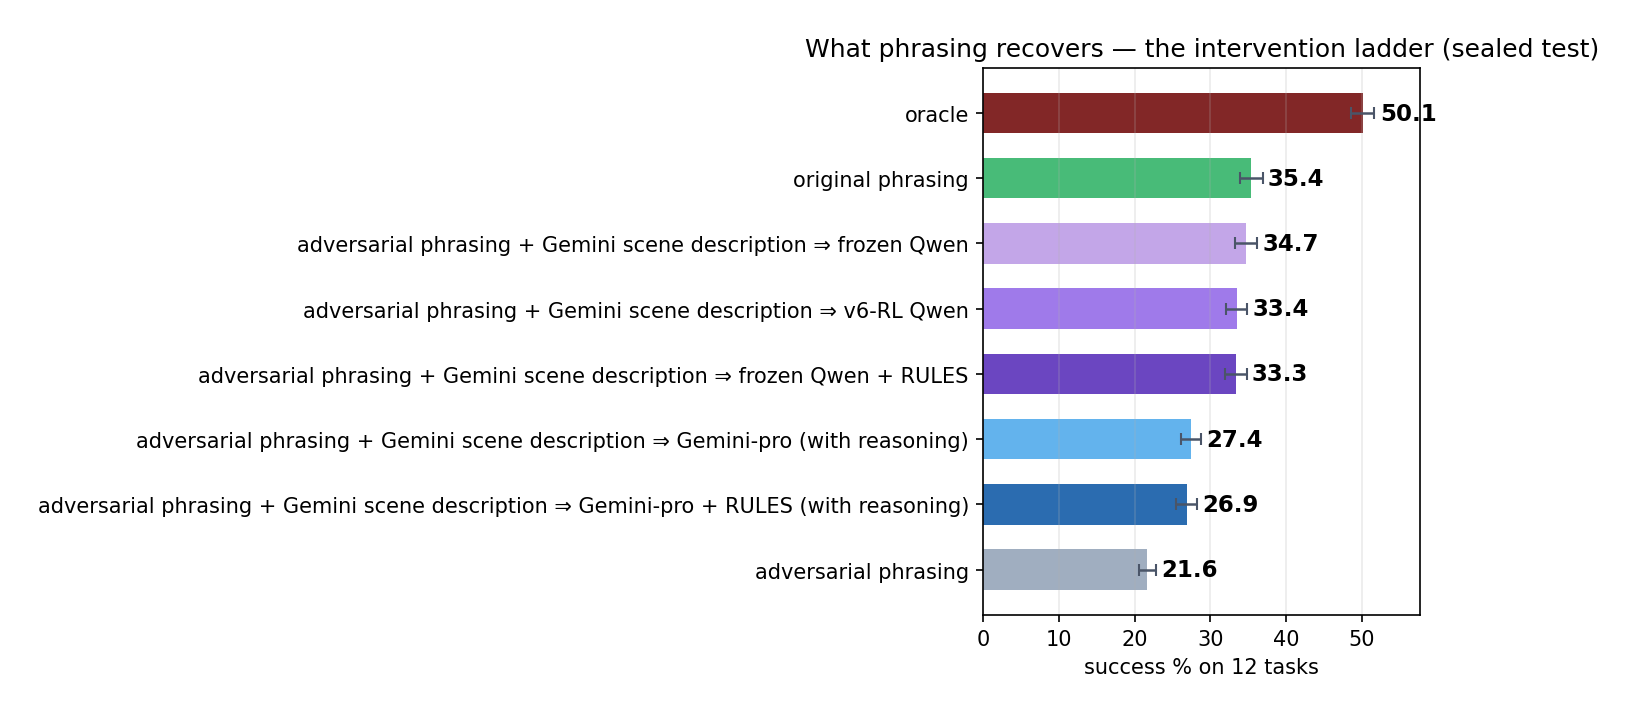
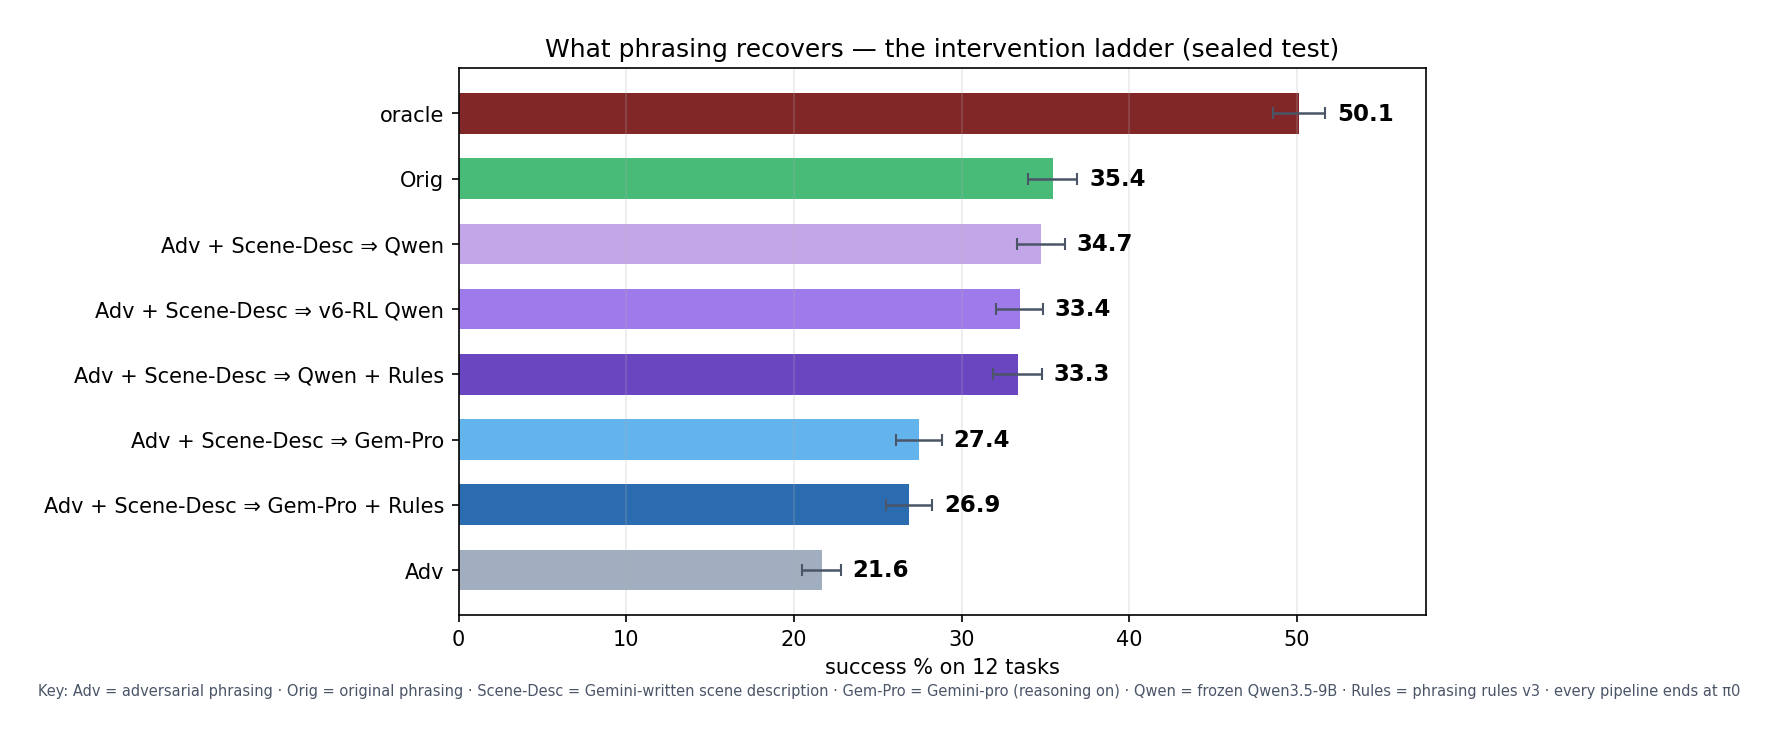
thin+ladder: abbreviated labels with key footer

Changed region(s): [[0.0, 0.2154, 0.9976, 0.9538], [0.2182, 0.0308, 0.9664, 0.1846], [0.8417, 0.8308, 0.8729, 0.8615]]

diff --git a/scripts/make_phrasing_ladder.py b/scripts/make_phrasing_ladder.py
@@ -41,13 +41,13 @@ def task_mean(arm: str) -> tuple[float, float]:
 
 
 BARS = [
-    ("adversarial phrasing", "passthrough", "#a0aec0"),
-    ("adversarial phrasing + Gemini scene description ⇒ Gemini-pro (with reasoning)", "gemini_pro_bare", "#63b3ed"),
-    ("adversarial phrasing + Gemini scene description ⇒ v6-RL Qwen", "v6_rl", "#9f7aea"),
-    ("adversarial phrasing + Gemini scene description ⇒ frozen Qwen", "frozen_gemini_trace", "#c3a6e8"),
-    ("adversarial phrasing + Gemini scene description ⇒ frozen Qwen + RULES", "rules_v3_gemini_trace", "#6b46c1"),
-    ("adversarial phrasing + Gemini scene description ⇒ Gemini-pro + RULES (with reasoning)", "rules_v3_gemini_pro", "#2b6cb0"),
-    ("original phrasing", "originals", "#48bb78"),
+    ("Adv", "passthrough", "#a0aec0"),
+    ("Adv + Scene-Desc ⇒ Gem-Pro", "gemini_pro_bare", "#63b3ed"),
+    ("Adv + Scene-Desc ⇒ v6-RL Qwen", "v6_rl", "#9f7aea"),
+    ("Adv + Scene-Desc ⇒ Qwen", "frozen_gemini_trace", "#c3a6e8"),
+    ("Adv + Scene-Desc ⇒ Qwen + Rules", "rules_v3_gemini_trace", "#6b46c1"),
+    ("Adv + Scene-Desc ⇒ Gem-Pro + Rules", "rules_v3_gemini_pro", "#2b6cb0"),
+    ("Orig", "originals", "#48bb78"),
     ("oracle", None, "#822727"),
 ]
 
@@ -79,6 +79,7 @@ ax.set_xlabel(f"success % on {len(tasks)} tasks")
 ax.set_title("What phrasing recovers — the intervention ladder (sealed test)")
 ax.grid(axis="x", alpha=0.25)
 ax.set_xlim(0, max(v + e for v, e in zip(vals, errs)) + 6)
+fig.text(0.01, 0.01, "Key: Adv = adversarial phrasing · Orig = original phrasing · Scene-Desc = Gemini-written scene description · Gem-Pro = Gemini-pro (reasoning on) · Qwen = frozen Qwen3.5-9B · Rules = phrasing rules v3 · every pipeline ends at π0", fontsize=7, color="#4a5568")
 fig.tight_layout()
 fig.savefig("results/charts/sealed_phrasing_ladder.png", dpi=150, bbox_inches="tight", pad_inches=0.25)
 print("chart -> results/charts/sealed_phrasing_ladder.png")

diff --git a/scripts/make_sealed_thin.py b/scripts/make_sealed_thin.py
@@ -41,11 +41,11 @@ def oracle_value():
 
 BARS = [  # (label, arm or callable, color)
     ("oracle", oracle_value, "#822727"),
-    ("original phrasing + Gemini scene description ⇒ Gemini-pro + RULES (with reasoning)", "rules_pro_nominal", "#805ad5"),
-    ("original phrasing", "originals", "#48bb78"),
-    ("adversarial phrasing + Gemini scene description ⇒ Gemini-pro + RULES (with reasoning)", "rules_v3_gemini_pro", "#2b6cb0"),
-    ("adversarial phrasing + Gemini scene description ⇒ Gemini-pro (with reasoning)", "gemini_pro_bare", "#63b3ed"),
-    ("adversarial phrasing", "passthrough", "#a0aec0"),
+    ("Orig + Scene-Desc ⇒ Gem-Pro + Rules", "rules_pro_nominal", "#805ad5"),
+    ("Orig", "originals", "#48bb78"),
+    ("Adv + Scene-Desc ⇒ Gem-Pro + Rules", "rules_v3_gemini_pro", "#2b6cb0"),
+    ("Adv + Scene-Desc ⇒ Gem-Pro", "gemini_pro_bare", "#63b3ed"),
+    ("Adv", "passthrough", "#a0aec0"),
 ]
 
 rows = []
@@ -69,11 +69,12 @@ for yi, (label, v, se, color) in zip(y, rows):
                 error_kw={"ecolor": "#4a5568", "capsize": 3, "lw": 1.1})
         ax.text(v + se + 0.6, yi, f"{v:.1f}", va="center", fontsize=11, fontweight="bold")
 ax.set_yticks(y)
-ax.set_yticklabels([r[0] for r in rows], fontsize=9.5)
+ax.set_yticklabels([r[0] for r in rows], fontsize=11)
 ax.set_xlabel("success % on 12 tasks (24 layouts × 12 reps)")
 ax.set_title("Sealed test — thin scoreboard")
 ax.grid(axis="x", alpha=0.25)
 ax.set_xlim(0, max((r[1] or 0) + (r[2] or 0) for r in rows) + 7)
+fig.text(0.01, 0.055, "Key: Adv = adversarial phrasing · Orig = original phrasing · Scene-Desc = Gemini-written scene description · Gem-Pro = Gemini-pro rewriter (reasoning on) · Rules = phrasing rules v3 · every pipeline ends at π0", fontsize=7, color="#4a5568")
 if any("*" in r[0] for r in rows):
     fig.text(0.01, 0.01, "* held-out estimate — full-grid leg rolling", fontsize=7, color="#718096")
 fig.tight_layout()
